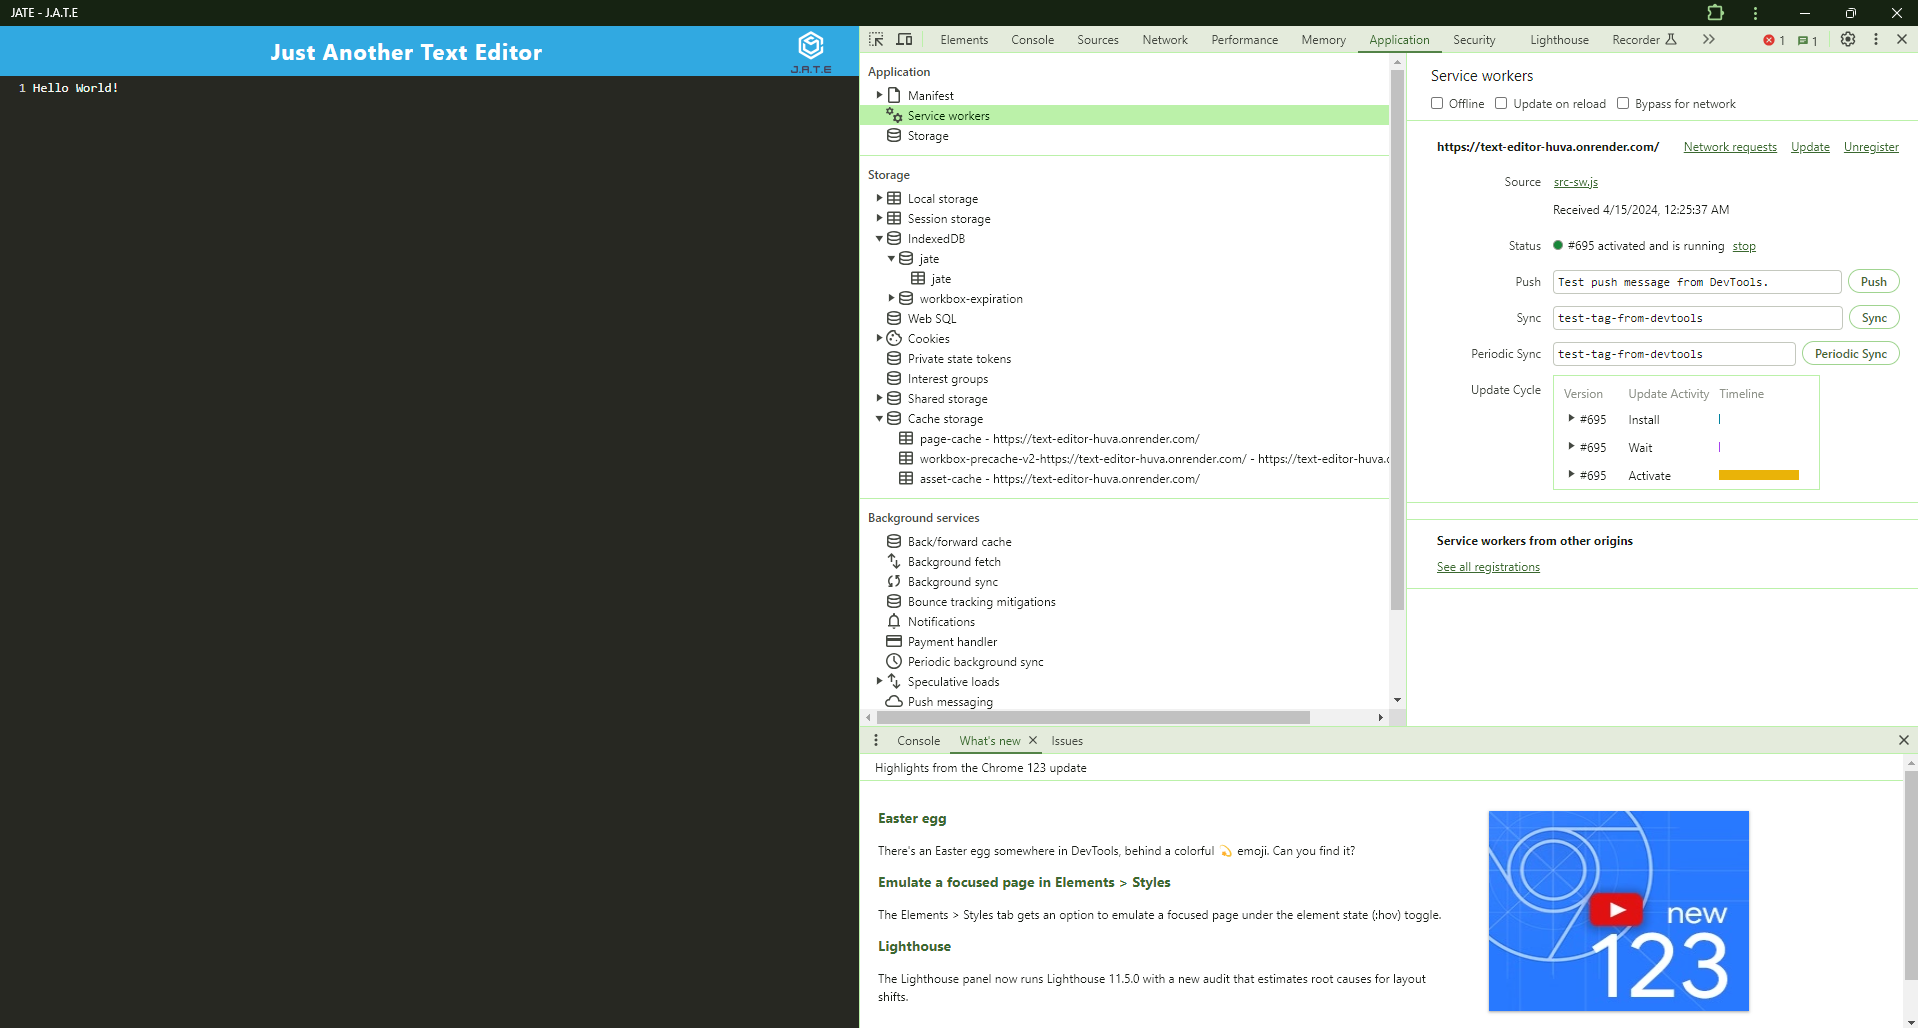
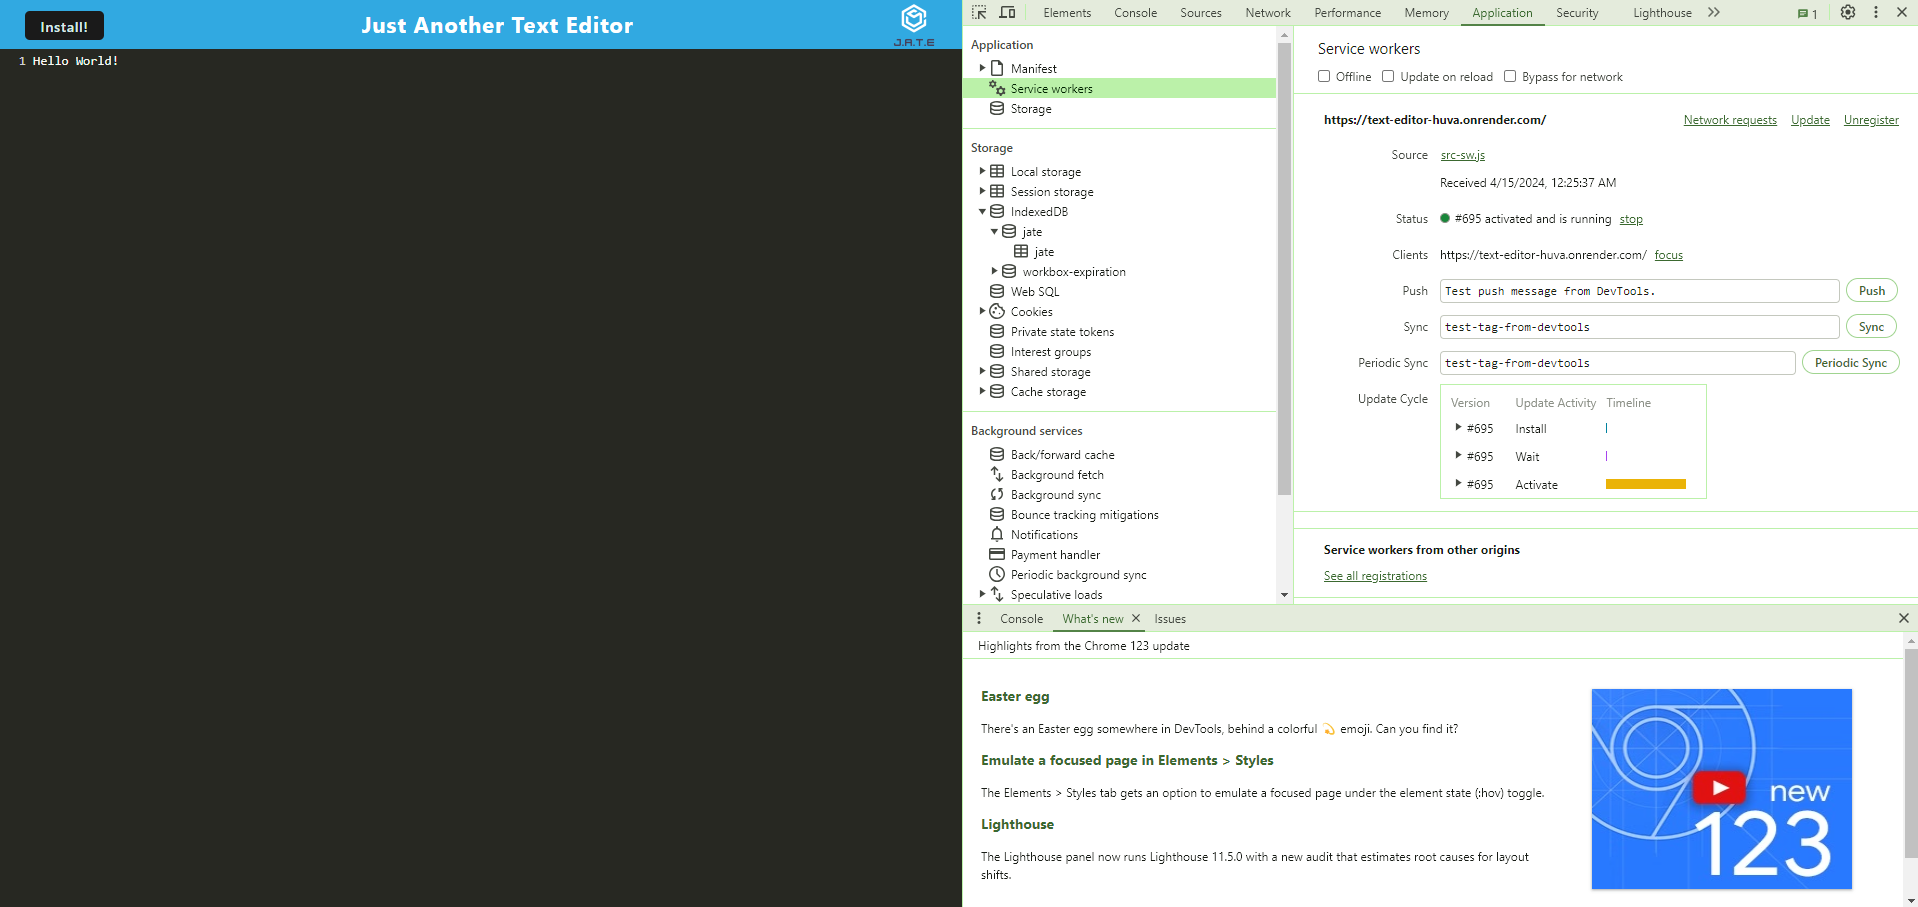
Updated Screenshots in README.md

Changed region(s): [[0.0, 0.0, 1.0, 1.0]]

diff --git a/README.md b/README.md
@@ -44,6 +44,9 @@ Service Worker Screen:
 IndexedDB Screen:
 ![Alt Text](./screenshots/indexedDB-screen.png)
 
+App Manifest Screen:
+![Alt Text](./screenshots/manifest-screen.png)
+
 ## Video
 
 N/A
